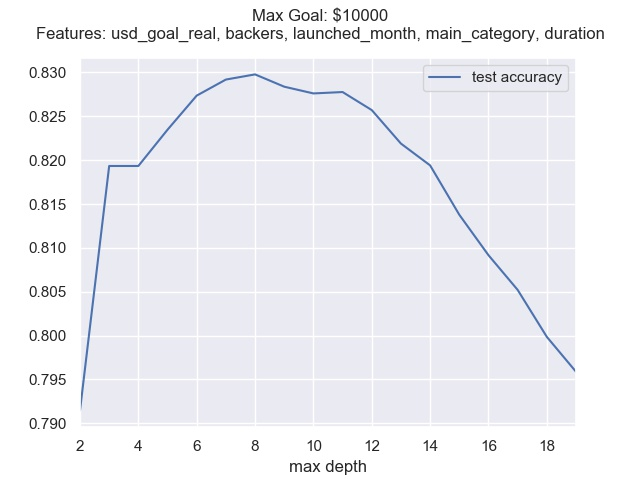
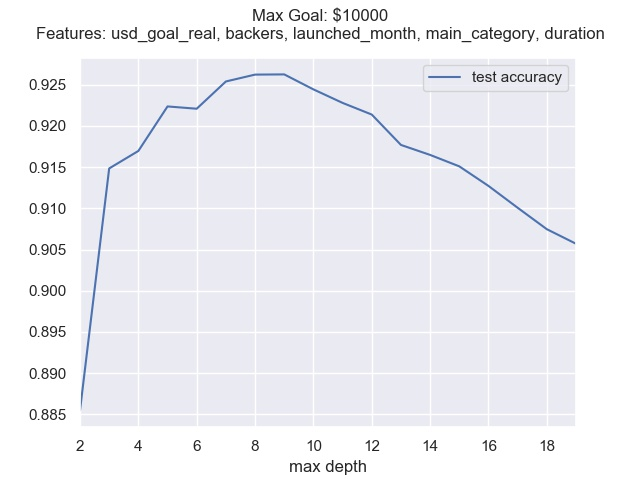
Filtered the data down to success/fail for ml, increase prediction accuracy

diff --git a/ks_ml.py b/ks_ml.py
@@ -127,7 +127,7 @@ def graph_classification_combo(data, features, feature_index, label, max_goal):
 def print_result(measure, value, importances):
     """
     Takes in a String measure describing the type of the value used to evaluate
-    a machine learning model, a float value representing the accuracy/error 
+    a machine learning model, a float value representing the accuracy/error
     value depends on the machine learning model, and a list of tuples in the
     form of (feature, importance), prints the given information in a formatted
     manner.
@@ -140,6 +140,9 @@ def print_result(measure, value, importances):
 
 def run():
     data = main.preprocess_data('ks-projects-201801.csv')
+    successful = data['state'] == 'successful'
+    failed = data['state'] == 'failed'
+    data = data[successful | failed]
     label = 'state'
     label2 = 'pledged_ratio'
 
@@ -150,27 +153,26 @@ def run():
     features2 = ['launched_month', 'main_category', 'duration']
 
     # Graphs best depth using different combos
-    graph_classification_combo(data, features1, 1, label, 5000)
-    plt.clf()
     graph_classification_combo(data, features1, 1, label, 10000)
     plt.clf()
-    graph_classification_combo(data, features2, 2, label, 5000)
+    graph_classification_combo(data, features1, 1, label, 20000)
     plt.clf()
     graph_classification_combo(data, features2, 2, label, 10000)
+    plt.clf()
+    graph_classification_combo(data, features2, 2, label, 20000)
     plt.clf()
 
     # Prints the accuracy and feature importance ranking using the best depth
     # for the DecisionTreeClassifier
-    accuracy, importances = classifier(data, features1, label, 5000, depth=8)
+    accuracy, importances = classifier(data, features1, label, 10000, depth=9)
     print_result("Accuracy Score", accuracy, importances)
-    accuracy, importances = classifier(data, features1, label, 10000, depth=8)
+    accuracy, importances = classifier(data, features2, label, 10000, depth=12)
     print_result("Accuracy Score", accuracy, importances)
 
     # Prints the accuracy and feature importance ranking using regressor
-    error, importances = regressor(data, features1, label2, 5000)
-    print_result("Mean Square Error", error, importances)
-
     error, importances = regressor(data, features1, label2, 10000)
+    print_result("Mean Square Error", error, importances)
+    error, importances = regressor(data, features2, label2, 10000)
     print_result("Mean Square Error", error, importances)
 
 
